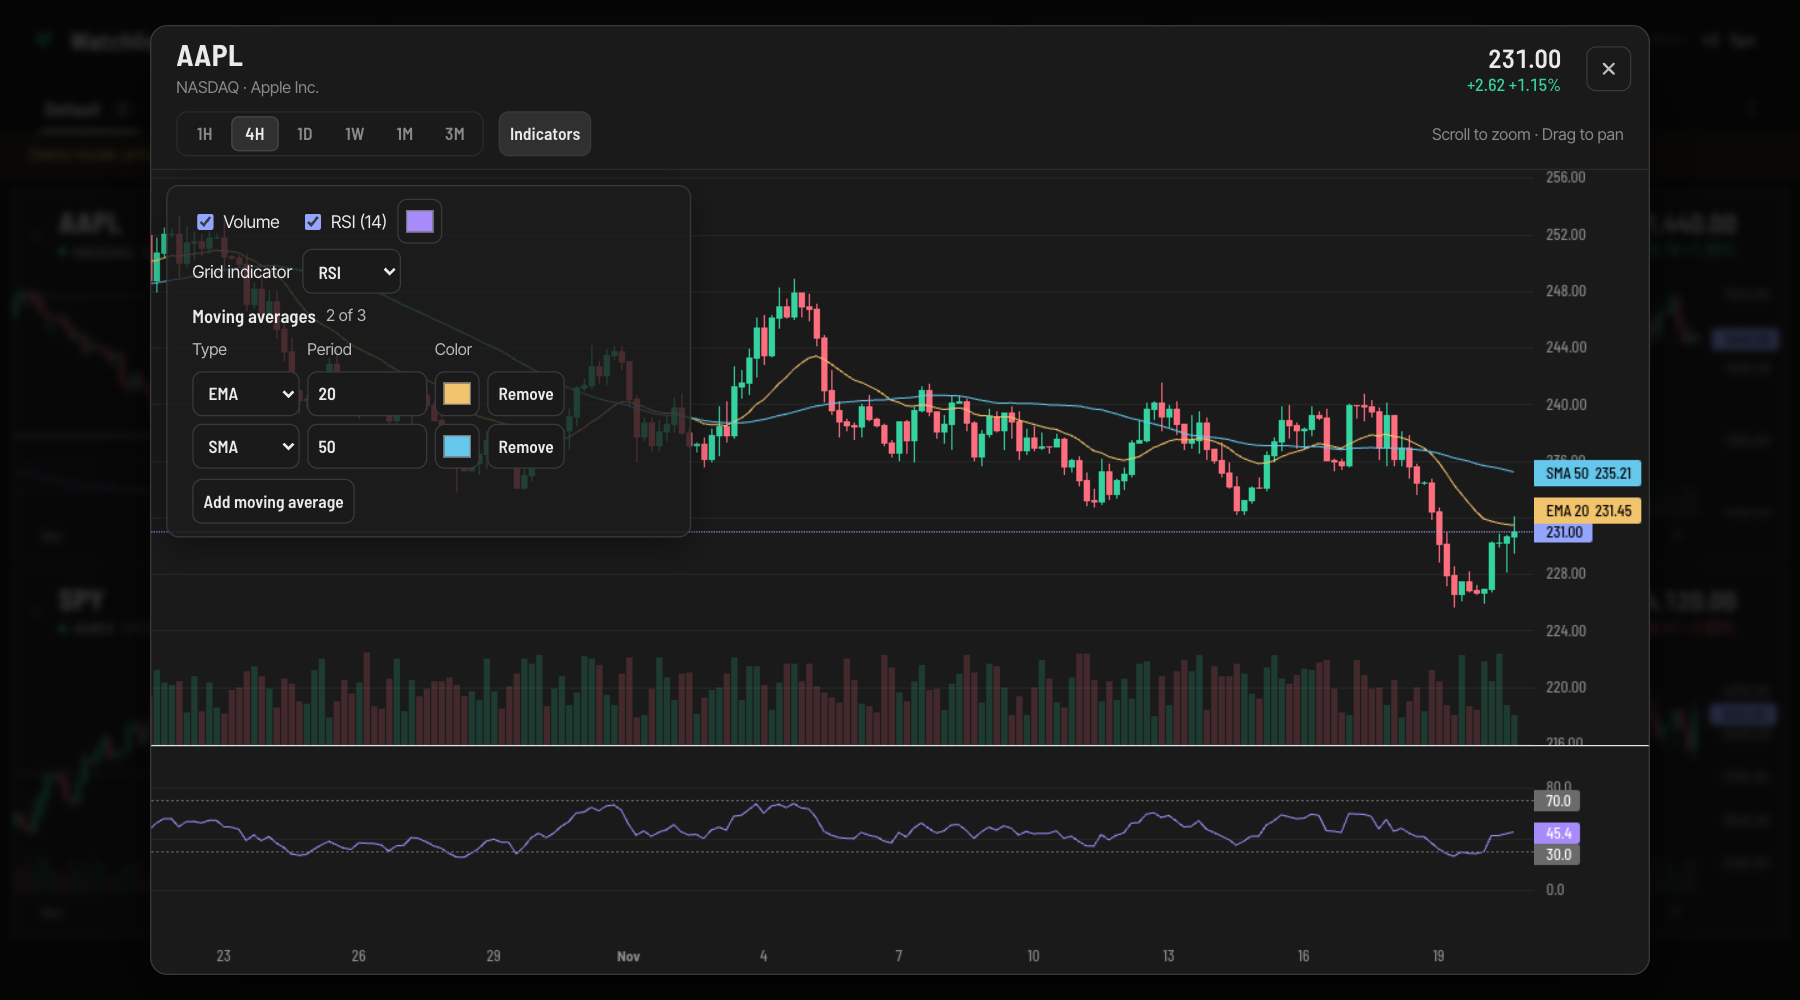
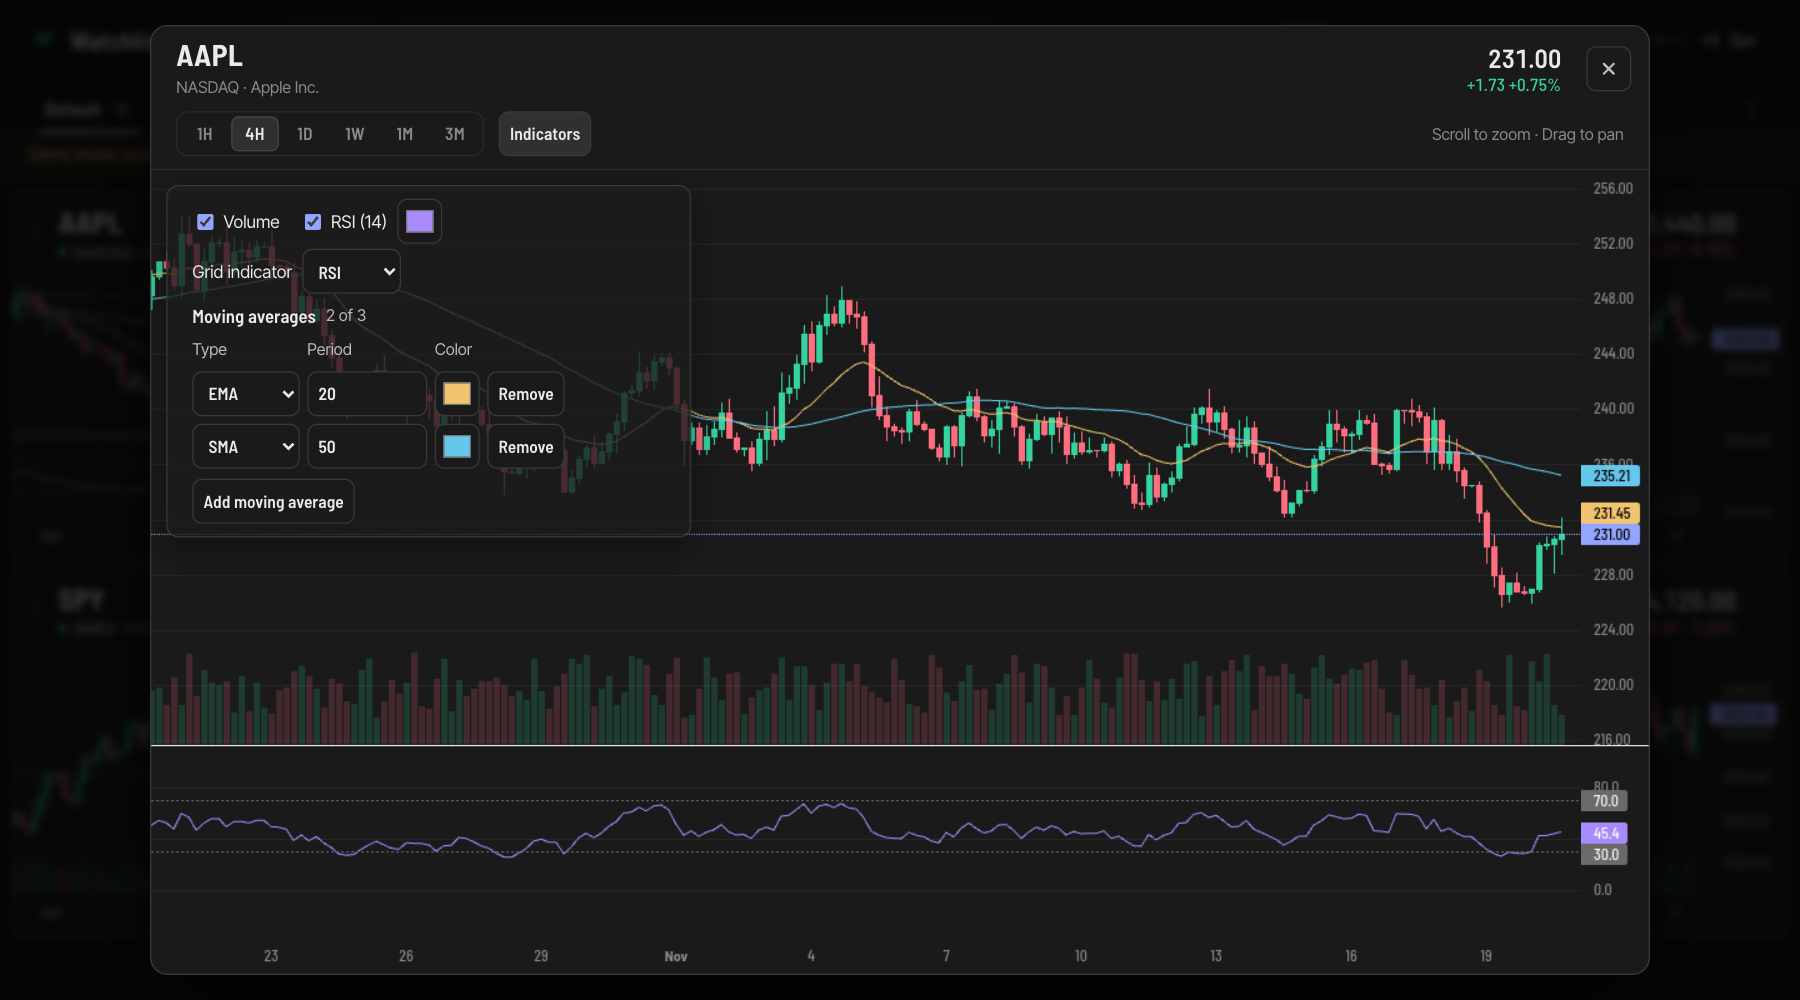
Show only values on indicator labels

diff --git a/public/app/indicators.js b/public/app/indicators.js
@@ -39,41 +39,6 @@ function relativeStrengthIndex(candles) {
   return points;
 }
 
-function attachAverageLabel(line, candles, getAverage) {
-  const empty = [];
-  let views, lastLabel, lastCoordinate, lastColor;
-  line.attachPrimitive({
-    priceAxisViews() {
-      const { noData, price, color } = line.lastValueData(false);
-      if (noData) {
-        return empty;
-      }
-      const coordinate = line.priceToCoordinate(price);
-      if (coordinate == null) {
-        return empty;
-      }
-      const { type, period } = getAverage();
-      const label = `${type.toUpperCase()} ${period}  ${candles.priceFormatter().format(price)}`;
-      if (label !== lastLabel || coordinate !== lastCoordinate || color !== lastColor) {
-        const rgb = Number.parseInt(color.slice(1), 16);
-        const brightness = (rgb >> 16) * 0.199 + ((rgb >> 8) & 255) * 0.687 + (rgb & 255) * 0.114;
-        const foreground = brightness > 160 ? '#000' : '#fff';
-        views = [{
-          coordinate: () => coordinate,
-          text: () => label,
-          backColor: () => color,
-          textColor: () => foreground,
-          tickVisible: () => false,
-        }];
-        lastLabel = label;
-        lastCoordinate = coordinate;
-        lastColor = color;
-      }
-      return views;
-    },
-  });
-}
-
 export function createIndicatorRenderer(view, { compact = false } = {}) {
   const { chart, candles, volume } = view;
   const { LineSeries, LineStyle } = window.LightweightCharts;
@@ -104,18 +69,13 @@ export function createIndicatorRenderer(view, { compact = false } = {}) {
       if (lines[i]) {
         lines[i].applyOptions({ color });
       } else {
-        const line = chart.addSeries(LineSeries, { color, lineWidth: 1, lastValueVisible: compact, priceLineVisible: false });
-        if (!compact) {
-          attachAverageLabel(line, candles, () => averages[i]);
-        }
-        lines.push(line);
+        lines.push(chart.addSeries(LineSeries, { color, lineWidth: 1, priceLineVisible: false }));
       }
     }
 
     if (settings.rsi && !rsi) {
       rsi = chart.addSeries(LineSeries, {
         color: settings.rsiColor, lineWidth: 1, priceLineVisible: false,
-        title: compact ? 'RSI' : '',
         priceFormat: { type: 'price', precision: 1, minMove: 0.1 },
         autoscaleInfoProvider: () => ({ priceRange: { minValue: 0, maxValue: 100 } }),
       }, 1);

diff --git a/README.md b/README.md
@@ -39,7 +39,7 @@ Click or tap a chart to enlarge it. Scroll or pinch to zoom, and drag to pan. Th
 
 Open **Indicators** to show the settings over the chart. Turn Volume and RSI on or off, change the RSI color, or add up to three SMA or EMA lines with their own periods and colors.
 
-Moving averages also appear on the grid chart, using its candle interval and value-only price labels.
+Moving averages also appear on the grid chart using its candle interval. Indicator labels show only their values in both views.
 
 If both Volume and RSI are on, use **Grid indicator** to choose which one shows on the tile. The app remembers your choices for each symbol.
 
